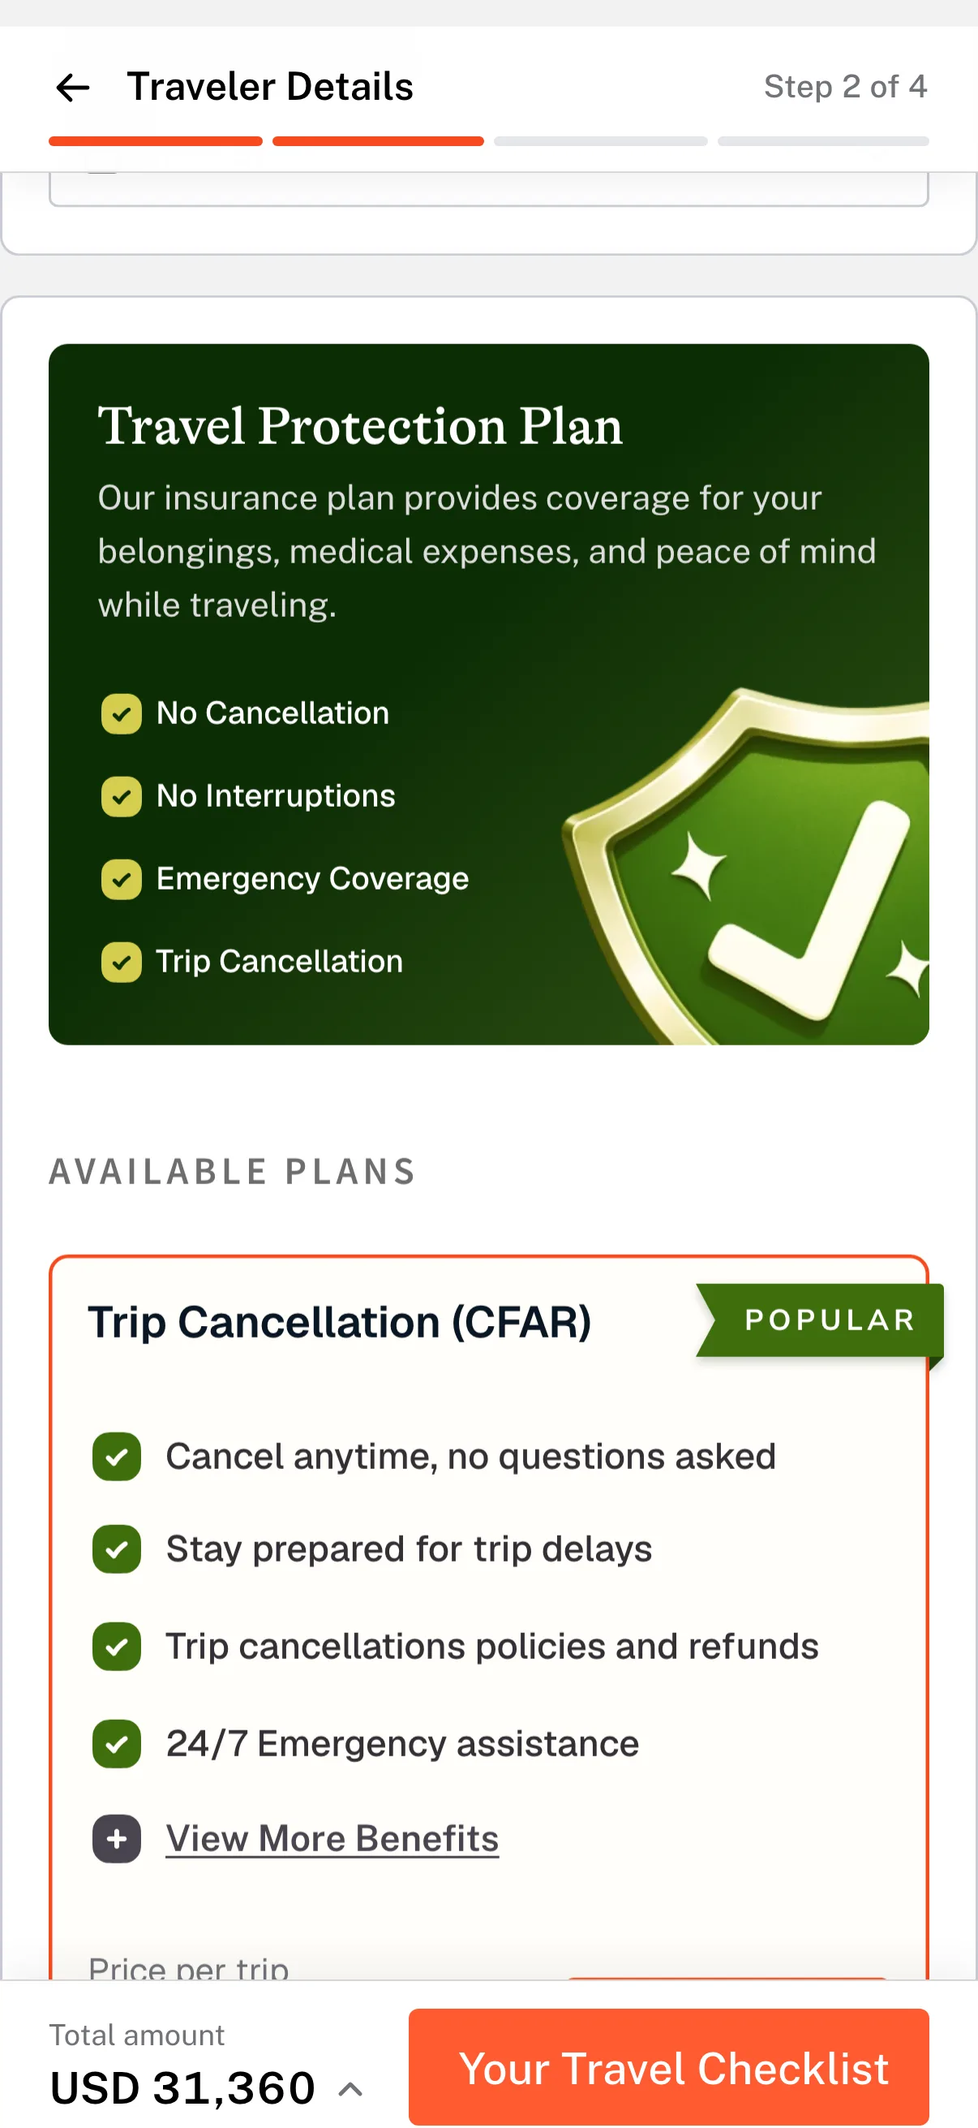
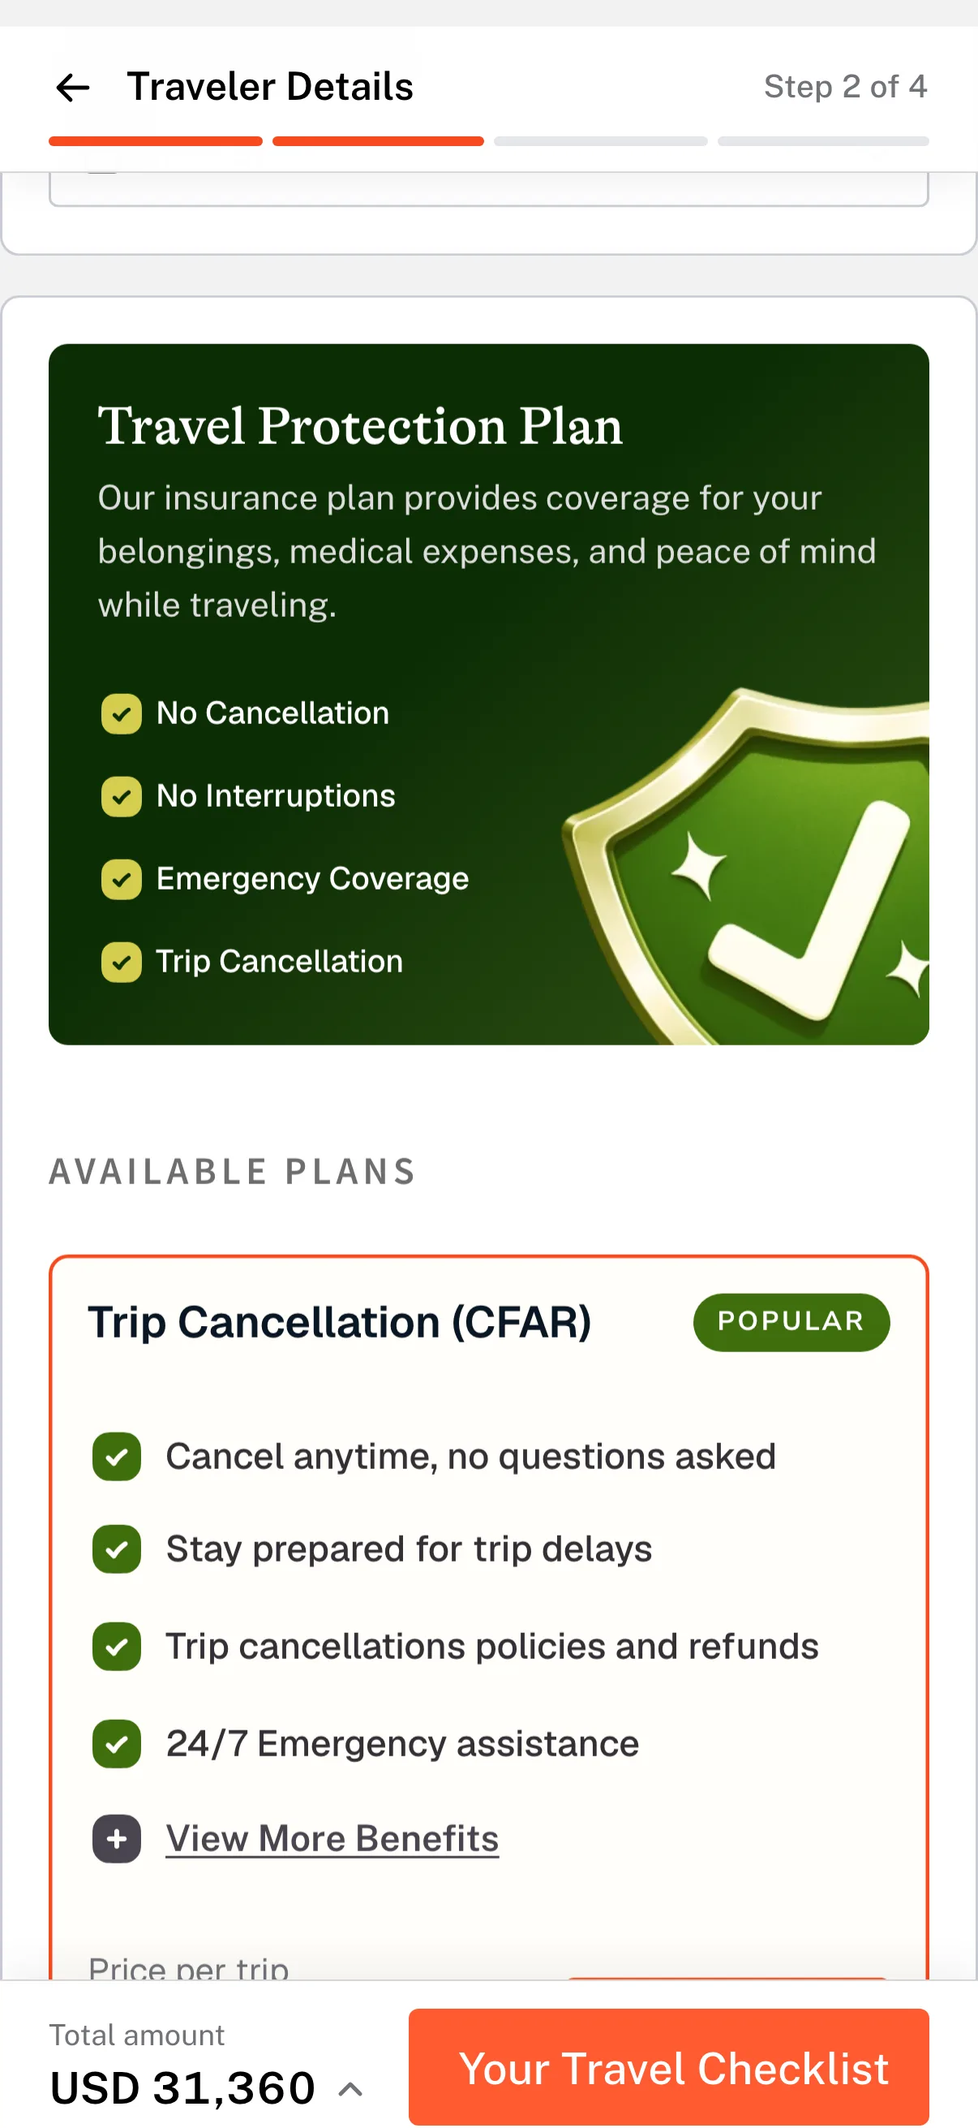
Prototype card: live desktop-width embed, Claude Code label, page spotlight
The card runs the prototype at 1440px scaled to fit, like the reference, so it
never drops to tablet. A label above names it with the Claude mark; hover dims
the page and lifts the card. The open view is its own tall frame (max 1200px)
with the close button on the bar above it; phones get the phone layout.
Prototype: Popular is a clean pill on the plan name, gone from the benefits
popup, and the phone bar fits at 350px. Rail stills recaptured.

Changed region(s): [[0.7056, 0.587, 0.9818, 0.6487]]

diff --git a/src/components/case-study/PrototypeCard.tsx b/src/components/case-study/PrototypeCard.tsx
@@ -1,19 +1,144 @@
 "use client";
 
-import { useCallback, useState } from "react";
-import { Expanded } from "./Media";
+import { useCallback, useEffect, useRef, useState } from "react";
+import { createPortal } from "react-dom";
 import { CardFooter } from "./Blocks";
+import { TOOLS } from "@/components/about/ToolPin";
 
 /**
- * A working prototype inside a case study. At rest it's a still of the prototype in the usual
- * media card. Hovering (or focusing) dims the still and shows what it is: "Try the working
- * prototype", and what it was built with. Clicking opens the prototype itself, full size in
- * the expanded view, with a line under it on what to try. The prototype only loads once it's
- * opened, so the case study stays light. On touch screens the label shows without hover.
+ * A working prototype inside a case study, after the reference (sudhanva.space): the prototype
+ * runs live in the card, drawn at its desktop width (1440px) and scaled down to fit, so it
+ * never drops to its tablet layout. A label above says what it is and what built it, with the
+ * Claude mark. Hovering (or focusing) dims the rest of the page and lifts the card; clicking
+ * opens it large, again at desktop width scaled to the screen. On a phone the open prototype
+ * uses its own phone layout instead.
  */
+const DESIGN_W = 1440;
+const DESIGN_H = 900;
+
+function ClaudeMark() {
+  const { view, parts } = TOOLS.claude;
+  return (
+    <svg width="16" height="16" viewBox={`0 0 ${view[0]} ${view[1]}`} aria-hidden="true" className="shrink-0">
+      {parts.map((p) => (
+        <path key={p.d.slice(0, 12)} d={p.d} fill={p.fill} />
+      ))}
+    </svg>
+  );
+}
+
+/** The prototype drawn at 1440px wide and scaled to its box; below 768px wide (phones) the
+ *  open prototype fills the box at its own size so its phone layout shows */
+function Frame({ src, title, live }: { src: string; title: string; live: boolean }) {
+  const box = useRef<HTMLDivElement>(null);
+  const [size, setSize] = useState<{ w: number; h: number } | null>(null);
+
+  useEffect(() => {
+    const el = box.current;
+    if (!el) return;
+    const ro = new ResizeObserver(([e]) => setSize({ w: e.contentRect.width, h: e.contentRect.height }));
+    ro.observe(el);
+    return () => ro.disconnect();
+  }, []);
+
+  const native = live && size !== null && size.w < 768;
+  const scale = size && !native ? size.w / DESIGN_W : 1;
+  const height = size && !native ? Math.round(size.h / scale) : DESIGN_H;
+
+  return (
+    <div ref={box} className="absolute inset-0 overflow-hidden bg-white">
+      {size && (
+        <iframe
+          src={src}
+          title={title}
+          loading="lazy"
+          tabIndex={live ? 0 : -1}
+          aria-hidden={live ? undefined : true}
+          className={`absolute left-0 top-0 border-0 bg-white ${live ? "" : "pointer-events-none"}`}
+          style={
+            native
+              ? { width: "100%", height: "100%" }
+              : { width: DESIGN_W, height, transform: `scale(${scale})`, transformOrigin: "0 0" }
+          }
+        />
+      )}
+    </div>
+  );
+}
+
+/** The open prototype: a tall frame, no wider than 1200px, with its title and the close button
+ *  on a bar right above the frame's top edge and what to try under it. Esc or a click on the
+ *  backdrop closes it; Tab stays inside. */
+function Open({ src, title, hint, onClose }: { src: string; title: string; hint: string; onClose: () => void }) {
+  const box = useRef<HTMLDivElement>(null);
+  const close = useRef<HTMLButtonElement>(null);
+
+  useEffect(() => {
+    const before = document.activeElement as HTMLElement | null;
+    const overflow = document.body.style.overflow;
+    document.body.style.overflow = "hidden";
+    close.current?.focus();
+    const onKey = (e: KeyboardEvent) => {
+      if (e.key === "Escape") onClose();
+      if (e.key !== "Tab" || !box.current) return;
+      const items = [...box.current.querySelectorAll<HTMLElement>("button, iframe")];
+      const first = items[0];
+      const last = items[items.length - 1];
+      if (e.shiftKey && document.activeElement === first) {
+        e.preventDefault();
+        last.focus();
+      } else if (!e.shiftKey && document.activeElement === last) {
+        e.preventDefault();
+        first.focus();
+      }
+    };
+    window.addEventListener("keydown", onKey);
+    return () => {
+      document.body.style.overflow = overflow;
+      window.removeEventListener("keydown", onKey);
+      before?.focus();
+    };
+  }, [onClose]);
+
+  return createPortal(
+    <div
+      ref={box}
+      role="dialog"
+      aria-modal="true"
+      aria-label={title}
+      onClick={(e) => e.target === e.currentTarget && onClose()}
+      className="cs-fade fixed inset-0 z-[100] flex items-center justify-center bg-[#12020f]/85 p-[12px] backdrop-blur-[8px] md:p-[24px]"
+    >
+      <div className="cs-pop flex h-full max-h-[1000px] w-full max-w-[1200px] flex-col gap-[12px]">
+        <div className="flex items-center justify-between gap-[16px] pl-[4px]">
+          <p className="m-0 flex min-w-0 flex-1 items-center gap-[8px] font-geist text-caption text-white/70 md:text-caption-lg">
+            <ClaudeMark />
+            <span className="truncate">Working prototype · {title}</span>
+          </p>
+          <button
+            ref={close}
+            type="button"
+            onClick={onClose}
+            aria-label="Close"
+            className="flex h-[40px] w-[40px] shrink-0 items-center justify-center rounded-full bg-white/10 text-white/90 ring-1 ring-white/15 transition-colors duration-150 hover:bg-white/20 hover:text-white focus-visible:outline focus-visible:outline-2 focus-visible:outline-offset-2 focus-visible:outline-white"
+          >
+            <svg width="18" height="18" viewBox="0 0 24 24" fill="none" stroke="currentColor" strokeWidth="1.8" strokeLinecap="round" aria-hidden="true">
+              <path d="M6 6l12 12M18 6L6 18" />
+            </svg>
+          </button>
+        </div>
+        <div className="relative min-h-0 flex-1 overflow-hidden rounded-lg bg-white shadow-[0_32px_80px_rgba(0,0,0,0.5)] ring-1 ring-white/10">
+          <Frame src={src} title={title} live />
+        </div>
+        <p className="m-0 text-center font-geist text-caption text-white/70 md:text-caption-lg">{hint}</p>
+      </div>
+    </div>,
+    document.body,
+  );
+}
+
 export default function PrototypeCard({
   src,
-  poster,
   title,
   hint,
   label,
@@ -21,65 +146,61 @@ export default function PrototypeCard({
 }: {
   /** The prototype page, e.g. /prototypes/artemis-insurance.html */
   src: string;
-  /** A still of the prototype for the resting card */
-  poster: string;
   /** Names the prototype for screen readers and the expanded view */
   title: string;
   /** What to try, shown under the open prototype */
   hint: string;
-  /** Optional line under the resting card */
+  /** Grey support line under the card */
   label?: string;
   builtWith?: string;
 }) {
   const [open, setOpen] = useState(false);
-  const [ratio, setRatio] = useState(16 / 10);
   const close = useCallback(() => setOpen(false), []);
-
-  const show = () => {
-    // Fill the screen around the prototype, leaving room for the close button and the hint
-    const phone = window.innerWidth < 768;
-    const w = window.innerWidth - (phone ? 32 : 112);
-    const h = window.innerHeight - (phone ? 120 : 160);
-    setRatio(w / h);
-    setOpen(true);
-  };
+  const show = () => setOpen(true);
 
   return (
-    <figure className="m-0 flex min-w-0 flex-col">
-      <div className="cs-pair-media relative overflow-hidden rounded-lg">
+    <figure className="group/proto relative m-0 flex min-w-0 flex-col has-[:focus-visible]:z-[60] hover:z-[60]">
+      <span
+        aria-hidden="true"
+        className="pointer-events-none fixed inset-0 z-0 bg-[#12020f] opacity-0 transition-opacity duration-300 ease-out motion-reduce:transition-none group-hover/proto:opacity-90 group-has-[:focus-visible]/proto:opacity-90"
+      />
+
+      <div className="relative z-[1] mb-[20px] flex flex-col items-center gap-[6px] text-center">
+        <p className="m-0 font-heading text-h4-md text-heading transition-colors duration-300 md:text-h3-md group-hover/proto:text-white group-has-[:focus-visible]/proto:text-white">
+          This is a working prototype
+        </p>
+        <p className="m-0 flex items-center gap-[6px] font-geist text-caption text-muted transition-colors duration-300 md:text-caption-lg group-hover/proto:text-white/70 group-has-[:focus-visible]/proto:text-white/70">
+          Built with <ClaudeMark />
+          <span className="text-heading transition-colors duration-300 group-hover/proto:text-white group-has-[:focus-visible]/proto:text-white">{builtWith}</span>
+        </p>
+      </div>
+
+      <div
+        className="cs-pair-media relative z-[1] overflow-hidden rounded-lg border border-line-soft bg-white transition-[transform,box-shadow,border-color] duration-300 ease-out motion-reduce:transition-none group-hover/proto:-translate-y-[4px] group-hover/proto:border-grape/45 group-hover/proto:shadow-[0_24px_56px_-16px_rgba(0,0,0,0.45)] group-has-[:focus-visible]/proto:border-grape/45"
+        style={{ aspectRatio: `${DESIGN_W} / ${DESIGN_H}` }}
+      >
+        <Frame src={src} title={title} live={false} />
         <button
           type="button"
           onClick={show}
           aria-label={`Open the working prototype: ${title}`}
           data-sound="whisper"
           data-sound-click="pop"
-          className="group relative block w-full cursor-pointer outline-none focus-visible:ring-2 focus-visible:ring-inset focus-visible:ring-grape"
+          className="absolute inset-0 cursor-zoom-in outline-none"
         >
-          {/* eslint-disable-next-line @next/next/no-img-element */}
-          <img src={poster} alt="" loading="lazy" decoding="async" className="block h-auto w-full transition-transform duration-500 ease-out group-hover:scale-[1.01] motion-reduce:transition-none" />
-          <span className="absolute inset-0 bg-[#12020f]/0 transition-colors duration-300 group-hover:bg-[#12020f]/55 group-focus-visible:bg-[#12020f]/55 motion-reduce:transition-none" />
-          <span className="absolute inset-0 flex flex-col items-center justify-center gap-[8px] opacity-0 transition-opacity duration-300 group-hover:opacity-100 group-focus-visible:opacity-100 motion-reduce:transition-none [@media(hover:none)]:justify-end [@media(hover:none)]:pb-[16px] [@media(hover:none)]:opacity-100">
-            <span className="flex items-center gap-[8px] rounded-full bg-white px-[20px] py-[10px] font-body text-body-md font-medium text-heading shadow-[0_8px_24px_rgba(18,2,15,0.25)]">
-              <svg width="18" height="18" viewBox="0 0 24 24" fill="none" stroke="currentColor" strokeWidth="1.8" strokeLinecap="round" strokeLinejoin="round" aria-hidden="true">
-                <path d="M5 3l14 8-6 1.5L10 19z" />
-              </svg>
-              Try the working prototype
-            </span>
-            <span className="font-geist text-caption text-white/80 [@media(hover:none)]:hidden">Built with {builtWith}</span>
+          <span className="absolute right-[12px] top-[12px] flex h-[36px] w-[36px] scale-90 items-center justify-center rounded-full bg-primary/80 text-white opacity-0 transition-[opacity,transform] duration-200 group-hover/proto:scale-100 group-hover/proto:opacity-100 [@media(hover:none)]:scale-100 [@media(hover:none)]:opacity-100">
+            <svg width="16" height="16" viewBox="0 0 24 24" fill="none" stroke="currentColor" strokeWidth="1.8" strokeLinecap="round" strokeLinejoin="round" aria-hidden="true">
+              <path d="M15 4h5v5M9 20H4v-5M20 4l-6 6M4 20l6-6" />
+            </svg>
           </span>
         </button>
       </div>
-      <CardFooter label={label} />
-      {open && (
-        <Expanded
-          label={title}
-          ratio={ratio}
-          onClose={close}
-          caption={<p className="max-w-[640px] text-center font-geist text-[14px] leading-[20px] text-white/70">{hint}</p>}
-        >
-          <iframe src={src} title={title} className="block h-full w-full border-0 bg-white" />
-        </Expanded>
-      )}
+
+      <div className="relative z-[1]">
+        <CardFooter label={label} />
+      </div>
+
+      {open && <Open src={src} title={title} hint={hint} onClose={close} />}
     </figure>
   );
 }

diff --git a/public/prototypes/artemis-insurance.html b/public/prototypes/artemis-insurance.html
@@ -264,7 +264,8 @@ button.step:active { transform: scale(.97); }
 .plan.on { background: #fffdf9; box-shadow: inset 0 0 0 1.5px var(--step-orange); }
 .plan .top { display: flex; flex-direction: column; gap: 20px; }
 .plan .name { display: flex; align-items: center; gap: 8px; font: 600 18px/24px var(--geist); color: var(--cyprus); }
-.plan .ribbon ~ .top .name, .plan[data-plan="cfar"] .name { padding-right: 86px; }   /* clears the 94 + 8 ribbon minus the 16 padding */
+/* CHANGED (Ashmik, 26 Nov): the Popular badge sits on the name line, so no ribbon clearance */
+.plan .name { justify-content: space-between; }
 .plan .extra { display: none; }
 
 .plan ul { list-style: none; margin: 0; padding: 0; display: flex; flex-direction: column; gap: 8px; }
@@ -293,14 +294,10 @@ button.step:active { transform: scale(.97); }
 .pbtn.remove:hover { background: rgba(255, 91, 49, 0.06); }
 .pbtn.add:active { background: rgba(154, 108, 33, 0.12); }
 .pbtn.remove:active { background: rgba(255, 91, 49, 0.12); }
-/* Tag / Type=Ribbon (LHS): 94 × 30 at the card's top-right, radius 0 8 0 0 */
-/* Figma: 94 × 30, #3e6f0e, notched tail on the left, label Nunito Sans Bold 12/22 +2px tracking.
-   ADDED: drawn as a real ribbon – 12px down from the top, wrapping 6px past the card's right edge
-   with a darker fold where it tucks behind the card, and a soft shadow under the band. */
-.ribbon { position: absolute; right: -6px; top: 12px; width: 94px; height: 30px; white-space: nowrap; padding: 4px 12px; background: var(--green); border-radius: 0 2px 0 0; font: 700 12px/22px var(--nunito); letter-spacing: 2px; text-transform: uppercase; color: #fff;
-  filter: drop-shadow(0 2px 2px rgba(12, 45, 5, 0.22)); }
-.ribbon::after { content: ""; position: absolute; right: 0; top: 100%; border-top: 6px solid #22420a; border-right: 6px solid transparent; }
-.ribbon svg { position: absolute; left: -8px; top: 0; width: 8px; height: 30px; }
+/* Figma's Popular tag was a 94 × 30 ribbon in #3e6f0e at the card's top-right. */
+/* CHANGED (Ashmik, 26 Nov): the folded ribbon read as messy. Now a plain pill on the plan name's
+   line, Figma's green, white Nunito Sans Bold caps. */
+.badge { flex: none; display: inline-flex; align-items: center; height: 24px; padding: 0 10px; border-radius: 12px; background: var(--green); color: #fff; font: 700 11px/16px var(--nunito); letter-spacing: 1.2px; text-transform: uppercase; }
 
 /* Plans stack when the card is narrower than two 327px footers side by side */
 @container (max-width: 720px) {
@@ -416,10 +413,6 @@ button.step:active { transform: scale(.97); }
 .m-body { overflow: auto; overscroll-behavior: contain; padding: 0 24px 24px; }
 .m-title { display: flex; align-items: center; flex-wrap: wrap; gap: 10px; }
 .m-title h3 { margin: 0; font: 600 20px/28px var(--geist); color: var(--cyprus); }
-/* Popular: no fill – a hairline green outline, small star, Nunito Sans Bold caps like the card ribbon */
-.m-tag { display: inline-flex; align-items: center; gap: 4px; height: 24px; padding: 0 8px 0 6px; border-radius: 12px; box-shadow: inset 0 0 0 1px rgba(62, 111, 14, 0.35); color: var(--green); font: 700 11px/16px var(--nunito); letter-spacing: 1.2px; text-transform: uppercase; }
-.m-tag svg { width: 12px; height: 12px; flex: none; }
-.m-tag[hidden] { display: none; }
 .m-price { margin-top: 4px; font: 400 14px/22px var(--geist); color: var(--shuttle-grey); }
 .m-price b { font: 600 16px/22px var(--geist); color: var(--cyprus); font-variant-numeric: tabular-nums; }
 .m-sub { margin: 4px 0 2px; font: 500 14px/20px var(--geist); color: var(--shuttle-grey); }
@@ -487,7 +480,10 @@ button.step:active { transform: scale(.97); }
   .mbar .cta { min-width: 0; padding: 11px 20px 10px; }
 }
 @media (max-width: 380px) {
-  .mbar .cta { padding: 11px 16px 10px; font-size: 16px; }
+  /* CHANGED (26 Nov): inside the case study the prototype can open at ~350px, so the bar tightens */
+  .mbar { gap: 12px; }
+  .mbar .v { font-size: 16px; line-height: 24px; }
+  .mbar .cta { padding: 11px 14px 10px; font-size: 14px; }
 }
 @media (prefers-reduced-motion: reduce) { html { scroll-behavior: auto; } * { transition: none !important; animation: none !important; } .reveal { opacity: 1; transform: none; } }
 </style>
@@ -666,7 +662,7 @@ button.step:active { transform: scale(.97); }
           <div class="plan-row">
             <article class="plan" data-plan="cfar">
               <div class="top">
-                <div class="name">Trip Cancellation (CFAR)</div>
+                <div class="name">Trip Cancellation (CFAR)<span class="badge">Popular</span></div>
                 <ul>
                   <li><span class="ic"><svg width="24" height="24" viewBox="0 0 24 24" fill="none" xmlns="http://www.w3.org/2000/svg">
 <path d="M11.9632 2H12.0368C13.4035 2 14.4801 1.99999 15.351 2.05941C16.2387 2.11997 16.9853 2.2456 17.6788 2.53284C19.394 3.2433 20.7567 4.60602 21.4672 6.32122C21.7544 7.01469 21.88 7.76134 21.9406 8.649C22 9.51986 22 10.5965 22 11.9631V12.0369C22 13.4035 22 14.4801 21.9406 15.351C21.88 16.2387 21.7544 16.9853 21.4672 17.6788C20.7567 19.394 19.394 20.7567 17.6788 21.4672C16.9853 21.7544 16.2387 21.88 15.351 21.9406C14.4801 22 13.4035 22 12.0369 22H11.9631C10.5965 22 9.51986 22 8.649 21.9406C7.76134 21.88 7.01469 21.7544 6.32122 21.4672C4.60602 20.7567 3.2433 19.394 2.53284 17.6788C2.2456 16.9853 2.11997 16.2387 2.05941 15.351C1.99999 14.4801 2 13.4035 2 12.0369V11.9632C2 10.5965 1.99999 9.51986 2.05941 8.64899C2.11997 7.76134 2.2456 7.01469 2.53284 6.32122C3.2433 4.60602 4.60602 3.2433 6.32122 2.53284C7.01469 2.2456 7.76134 2.11997 8.64899 2.05941C9.51986 1.99999 10.5965 2 11.9632 2ZM16.0639 10.672C16.52 10.3606 16.6373 9.73836 16.3258 9.28227C16.0144 8.82618 15.3922 8.70892 14.9361 9.02036L14.8348 9.08953C13.1939 10.21 11.7795 11.6244 10.6609 13.2575L9.20673 11.8049C8.816 11.4146 8.18283 11.4149 7.79252 11.8056C7.4022 12.1964 7.40254 12.8295 7.79327 13.2198L10.1345 15.5585C10.3549 15.7787 10.6653 15.8836 10.974 15.8422C11.2828 15.8008 11.5546 15.6179 11.7093 15.3475C12.7601 13.5099 14.2145 11.9349 15.9626 10.7412L16.0639 10.672Z" fill-rule="evenodd" clip-rule="evenodd" fill="#3E6F0E"/>
@@ -702,9 +698,6 @@ button.step:active { transform: scale(.97); }
                 <div class="price"><span class="k">Price per trip</span><span class="v" style="color:var(--cyprus)">$1,300.00 USD</span></div>
                 <button class="pbtn" type="button"></button>
               </div>
-              <div class="ribbon"><svg width="8" height="30" viewBox="0 0 8 30" fill="none" xmlns="http://www.w3.org/2000/svg">
-<path d="M0 0H7.99955V30H0L7.99955 15L0 0Z" fill="#3E6F0E"/>
-</svg>popular</div>
             </article>
             <article class="plan" data-plan="basic">
               <div class="top">
@@ -814,7 +807,7 @@ button.step:active { transform: scale(.97); }
   <div class="dlg" role="dialog" aria-modal="true" aria-labelledby="mt">
     <div class="m-grab" aria-hidden="true"></div>
     <div class="m-head">
-      <div class="m-title"><h3 id="mt"></h3><span class="m-tag"><svg viewBox="0 0 12 12" aria-hidden="true"><path d="M6 1.2l1.4 2.9 3.2.4-2.3 2.2.6 3.1L6 8.3 3.1 9.8l.6-3.1L1.4 4.5l3.2-.4L6 1.2Z" fill="#3e6f0e"/></svg>Popular</span></div>
+      <div class="m-title"><h3 id="mt"></h3></div>
       <button class="x" type="button" data-mclose aria-label="Close"><svg width="18" height="18" viewBox="0 0 20 20" fill="none"><path d="M5 5l10 10M15 5 5 15" stroke="#000" stroke-width="1.7" stroke-linecap="round"/></svg></button>
     </div>
     <div class="m-body">
@@ -882,7 +875,6 @@ function openModal(plan, from) {
   mPlan = plan; mReturn = from;
   const card = $('.plan[data-plan="' + plan + '"]');
   $('#mt').textContent = PLAN_NAME[plan];
-  $('.m-tag', modal).hidden = plan !== 'cfar';
   $('.m-list', modal).innerHTML = $$('li:not(.more)', card).map(li => '<li>' + li.innerHTML + '</li>').join('');
   $('.m-body', modal).scrollTop = 0; $('.m-head', modal).classList.remove('scrolled');
   syncModal();

diff --git a/src/app/works/artemis-insurance/page.tsx b/src/app/works/artemis-insurance/page.tsx
@@ -354,7 +354,6 @@ function Solution() {
       <Visual>
         <PrototypeCard
           src="/prototypes/artemis-insurance.html"
-          poster="/images/artemis-insurance/poster.webp"
           title="Travel protection in the Artemis traveller details step"
           label="The traveller details step with travel protection, rebuilt as a working prototype"
           hint="Try it: add or switch a plan, open View More Benefits, or press Your Travel Checklist with fields left empty."
